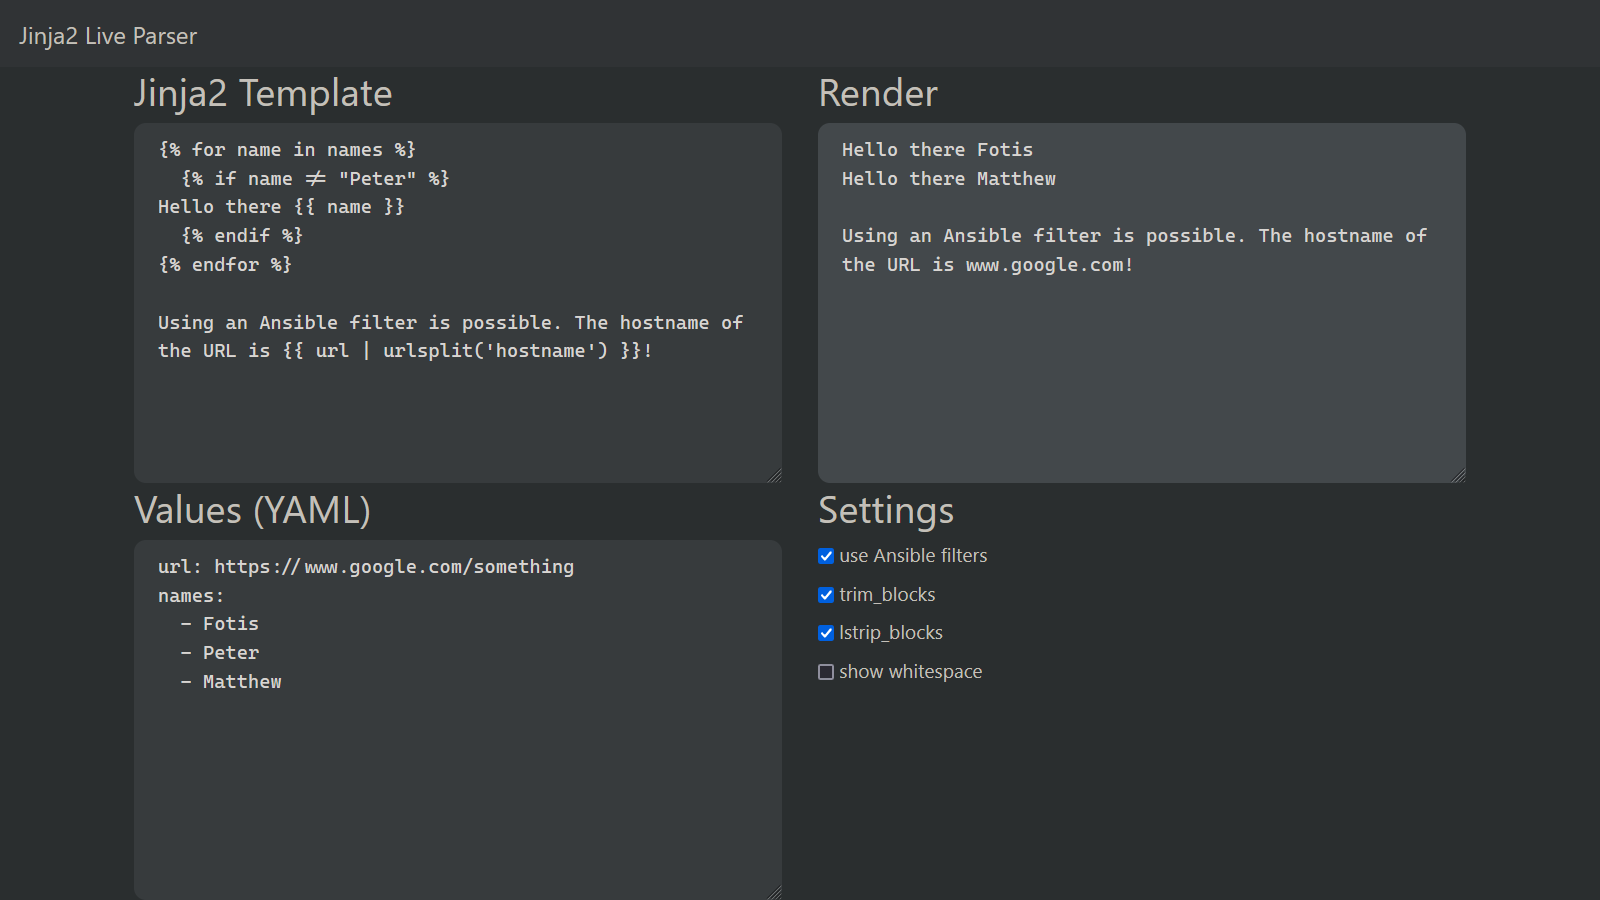
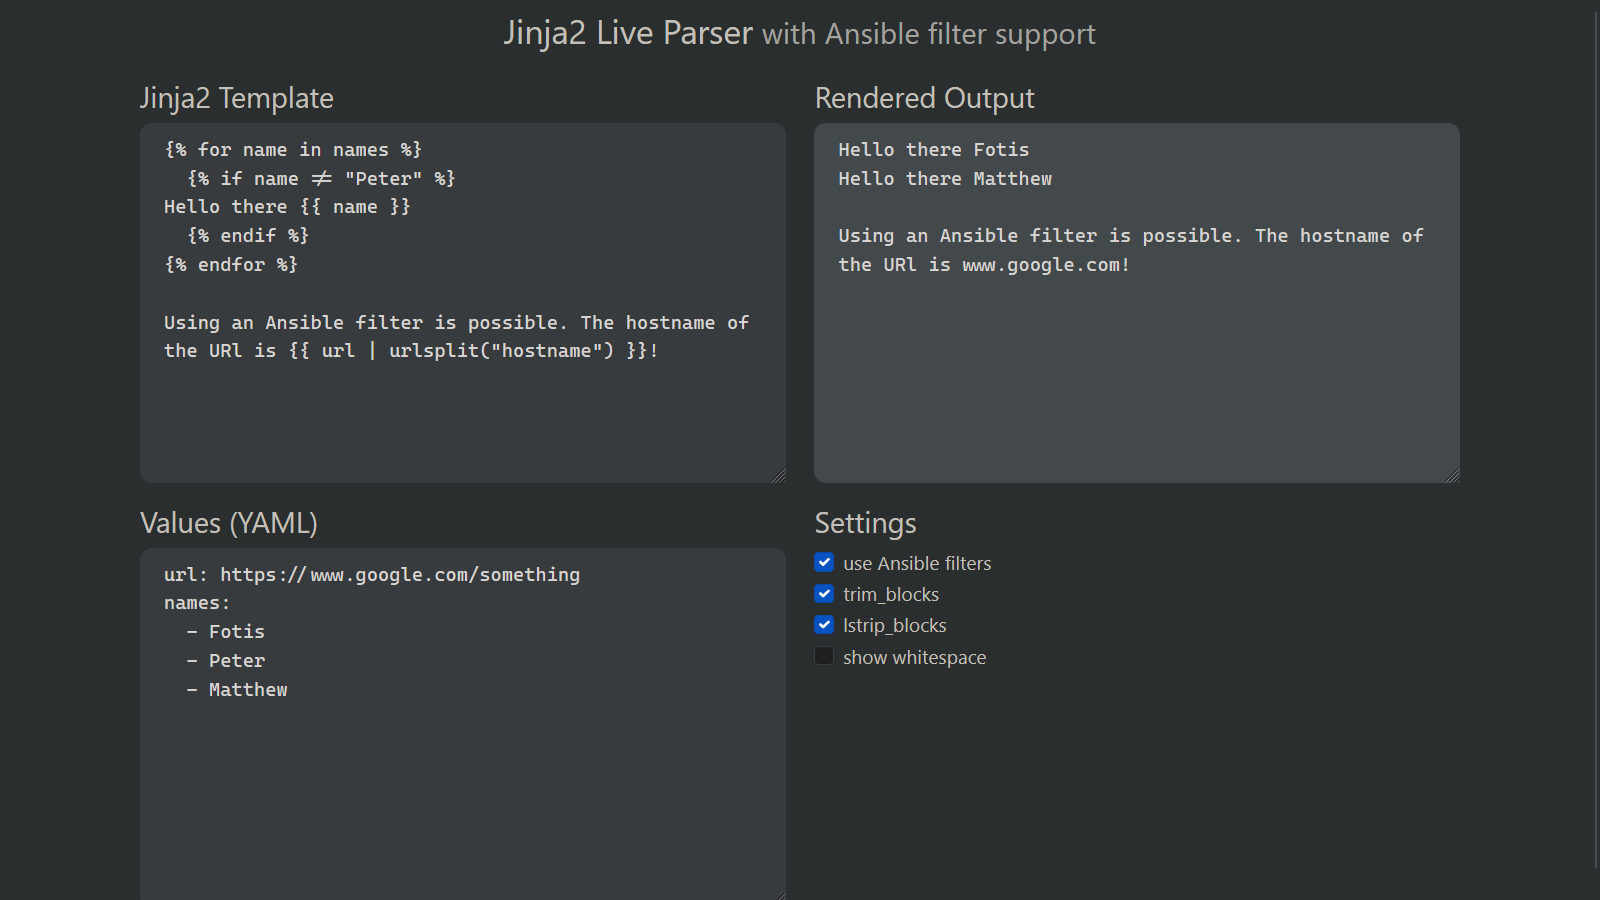
Upgrade all libraries and improve page styling.

diff --git a/static/index.html b/static/index.html
@@ -2,74 +2,81 @@
 <html>
 
 <head>
-    <script
-        src="http://code.jquery.com/jquery-3.3.1.min.js"
-        integrity="sha256-FgpCb/KJQlLNfOu91ta32o/NMZxltwRo8QtmkMRdAu8="
-        crossorigin="anonymous">
-    </script>
-    <script
-        src="https://maxcdn.bootstrapcdn.com/bootstrap/4.0.0/js/bootstrap.min.js"
-        integrity="sha384-JZR6Spejh4U02d8jOt6vLEHfe/JQGiRRSQQxSfFWpi1MquVdAyjUar5+76PVCmYl"
-        crossorigin="anonymous">
-    </script>
-    <script src="/static/convert.js"></script>
-
-    <link
-        rel="stylesheet"
-        href="https://maxcdn.bootstrapcdn.com/bootstrap/4.0.0/css/bootstrap.min.css"
-        integrity="sha384-Gn5384xqQ1aoWXA+058RXPxPg6fy4IWvTNh0E263XmFcJlSAwiGgFAW/dAiS6JXm"
-        crossorigin="anonymous">
-    <link rel="stylesheet" type="text/css" href="/static/style.css">
-    <title>Jinja2 live parser</title>
+  <link
+    href="https://cdn.jsdelivr.net/npm/bootstrap@5.3.0/dist/css/bootstrap.min.css"
+    rel="stylesheet"
+    integrity="sha384-9ndCyUaIbzAi2FUVXJi0CjmCapSmO7SnpJef0486qhLnuZ2cdeRhO02iuK6FUUVM"
+    crossorigin="anonymous">
+  <link rel="stylesheet" type="text/css" href="/static/style.css">
+  <title>Jinja2 Live Parser</title>
 </head>
 
 <body>
-    <nav class="navbar navbar-expand-sm bg-dark navbar-dark">
-        <a class="navbar-brand">Jinja2 Live Parser</a>
-    </nav>
-    <form class="container">
-        <div class="row">
-            <div class="col-md-6">
-                <h2>Jinja2 Template</h2>
-                <textarea id="template"></textarea>
-            </div>
-            <div class="col-md-6">
-                <h2>Render</h2>
-                <textarea id="render" disabled></textarea>
-            </div>
-        </div>
+  <div class="container text-center p-2">
+  <h3>
+    Jinja2 Live Parser
+    <small class="text-muted">with Ansible filter support</small>
+  </h3>
+  </div>
 
-        <div class="row">
-            <div class="col-md-6">
-                <h2>Values (YAML)</h2>
-                <textarea id="values"></textarea>
-            </div>
-            <div class="col-md-6">
-                <h2>Settings</h2>
-                <div id="settings">
-                    <label>
-                        <input type="checkbox" name="use-ansible-filters" id="use-ansible-filters" checked="checked" />
-                        use Ansible filters
-                    </label>
-                    <br />
-                    <label>
-                        <input type="checkbox" name="trim-blocks" id="trim-blocks" checked="checked" />
-                        trim_blocks
-                    </label>
-                    <br />
-                    <label>
-                        <input type="checkbox" name="lstrip-blocks" id="lstrip-blocks" />
-                        lstrip_blocks
-                    </label>
-                    <br />
-                    <label>
-                        <input type="checkbox" name="show-whitespace" id="show-whitespace" />
-                        show whitespace
-                    </label>
-                </div>
-            </div>
+  <div class="container">
+    <div class="row p-2">
+      <div class="col">
+        <h4>Jinja2 Template</h4>
+        <textarea id="template"></textarea>
+      </div>
+      <div class="col">
+        <h4>Rendered Output</h4>
+        <textarea id="render" disabled></textarea>
+      </div>
+    </div>
+
+    <div class="row p-2">
+      <div class="col">
+        <h4>Values (YAML)</h4>
+        <textarea id="values"></textarea>
+      </div>
+      <div class="col">
+        <h4>Settings</h4>
+        <div class="form-check">
+          <input class="form-check-input" type="checkbox" id="use-ansible-filters" checked>
+          <label class="form-check-label" for="use-ansible-filters">
+            use Ansible filters
+          </label>
         </div>
-    </form>
+        <div class="form-check">
+          <input class="form-check-input" type="checkbox" id="trim-blocks" checked>
+          <label class="form-check-label" for="trim-blocks">
+            trim_blocks
+          </label>
+        </div>
+        <div class="form-check">
+          <input class="form-check-input" type="checkbox" id="lstrip-blocks">
+          <label class="form-check-label" for="lstrip-blocks">
+            lstrip_blocks
+          </label>
+        </div>
+        <div class="form-check">
+          <input class="form-check-input" type="checkbox" id="show-whitespace">
+          <label class="form-check-label" for="show-whitespace">
+            show whitespace
+          </label>
+        </div>
+      </div>
+    </div>
+  </div>
+
+  <script
+    src="https://cdn.jsdelivr.net/npm/bootstrap@5.3.0/dist/js/bootstrap.bundle.min.js"
+    integrity="sha384-geWF76RCwLtnZ8qwWowPQNguL3RmwHVBC9FhGdlKrxdiJJigb/j/68SIy3Te4Bkz"
+    crossorigin="anonymous">
+  </script>
+  <script
+    src="https://code.jquery.com/jquery-3.7.0.min.js"
+    integrity="sha384-NXgwF8Kv9SSAr+jemKKcbvQsz+teULH/a5UNJvZc6kP47hZgl62M1vGnw6gHQhb1"
+    crossorigin="anonymous">
+  </script>
+  <script src="/static/convert.js"></script>
 </body>
 
 </html>

diff --git a/static/convert.js b/static/convert.js
@@ -1,9 +1,9 @@
 $(document).ready(function(){
     function render_template() {
-        var useAnsibleFilters = $('input[name="use-ansible-filters"]').is(':checked') ? 1:0;
-        var trimBlocks = $('input[name="trim-blocks"]').is(':checked') ? 1:0;
-        var lstripBlocks = $('input[name="lstrip-blocks"]').is(':checked') ? 1:0;
-        var showWhitespace = $('input[name="show-whitespace"]').is(':checked') ? 1:0;
+        var useAnsibleFilters = $('input[id="use-ansible-filters"]').is(':checked') ? 1:0;
+        var trimBlocks = $('input[id="trim-blocks"]').is(':checked') ? 1:0;
+        var lstripBlocks = $('input[id="lstrip-blocks"]').is(':checked') ? 1:0;
+        var showWhitespace = $('input[id="show-whitespace"]').is(':checked') ? 1:0;
         $.post('/render', {
             template: $('#template').val(),
             values: $('#values').val(),

diff --git a/static/style.css b/static/style.css
@@ -24,7 +24,3 @@ body {
 #render {
     background: #555;
 }
-
-span.whitespace {
-    color: #ccc;
-}

diff --git a/README.md b/README.md
@@ -1,4 +1,4 @@
-# Jinja2 Live Parser (with Ansible Support)
+# Jinja2 Live Parser (with Ansible filter support)
 
 Live parser for Jinja is a little web application that renders a Jinja2 template using the values specified in YAML format. The result is updated dynamically as you type.
 
